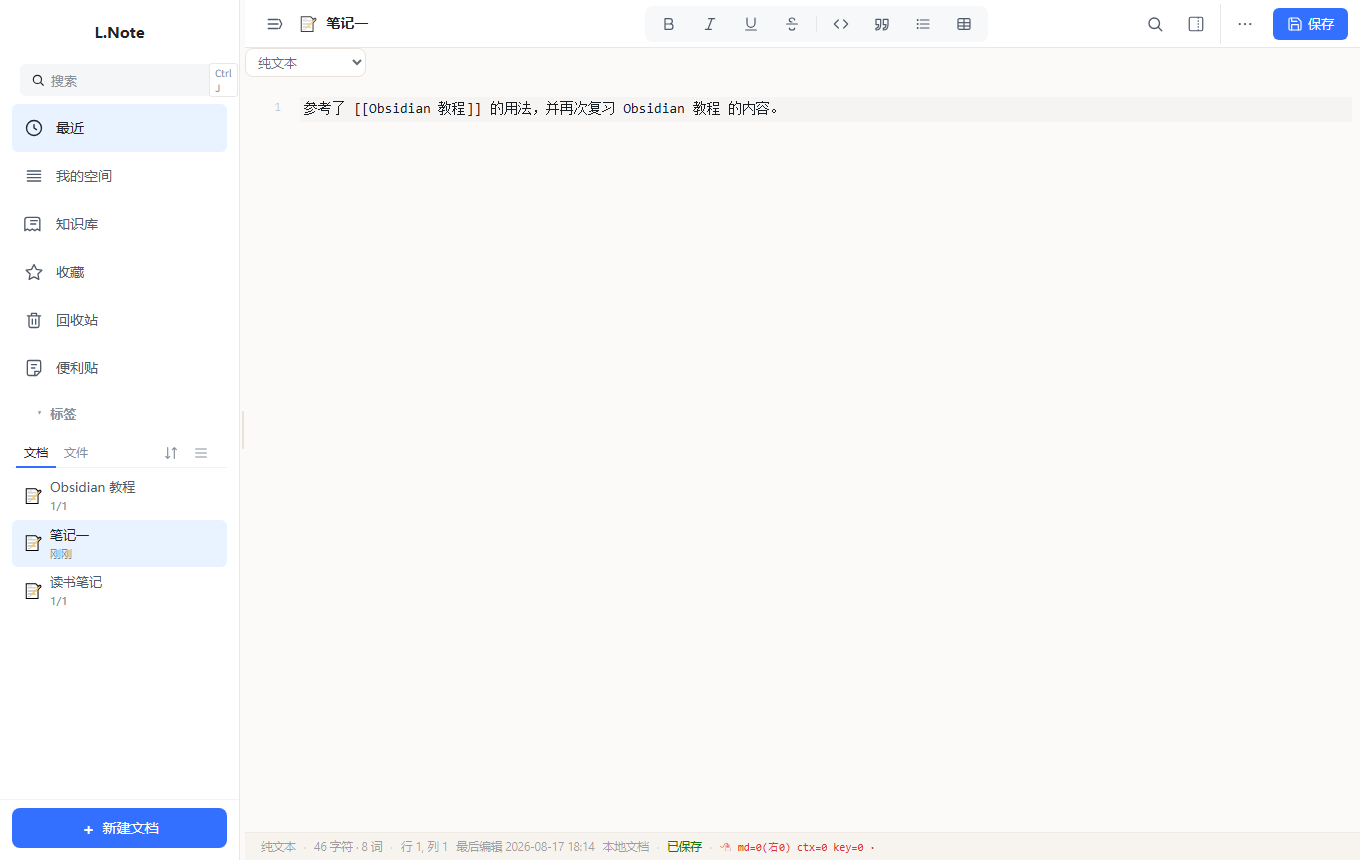
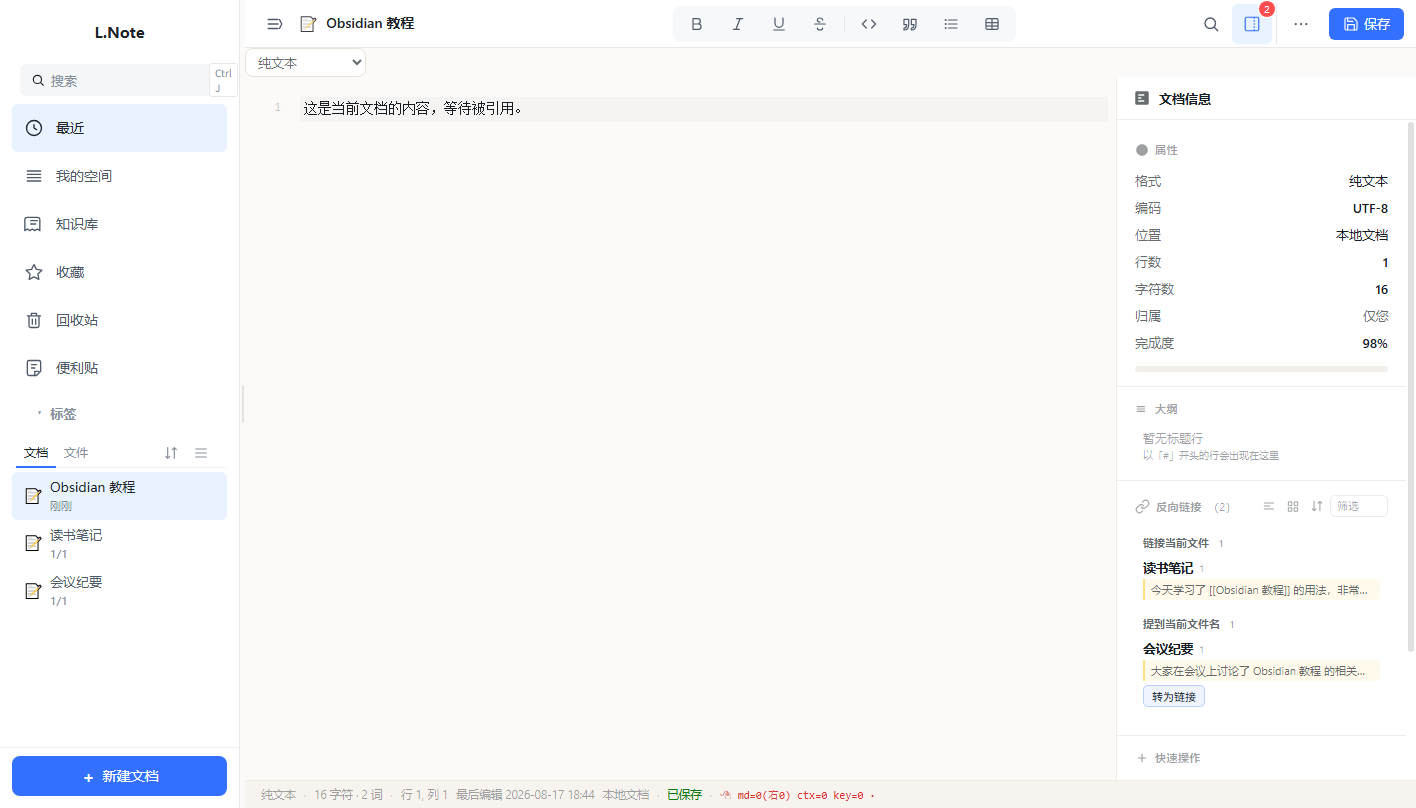
chore(site): 更新发布页面 v0.21.4

diff --git a/blink-guide.html b/blink-guide.html
@@ -105,7 +105,7 @@
     <div class="logo">L.</div>
     <h1>反向链接 · 操作指南</h1>
     <p class="tagline">L.Note（Inkpad）内置 Obsidian 风格反向链接面板，帮你发现文档之间的关联</p>
-    <div class="badge">版本 v0.20.44 · 纯本地运行 · <b>4 步上手</b></div>
+    <div class="badge">版本 v0.21.4 · 纯本地运行 · <b>4 步上手</b></div>
   </header>
 
   <div class="intro">
@@ -123,42 +123,45 @@
         <div class="step-title">在其他文档中引用标题</div>
         <div class="step-desc">
           在任意文档正文写入 <code>[[目标文档标题]]</code> 即为<b>内部链接</b>（也支持 <code>[[标题|别名]]</code>）；
-          或者直接输入目标文档的<b>标题文字</b>，它会被识别为"潜在引用"。
+          写入的瞬间编辑器就会<b>高亮显示</b>这段链接，让你立刻知道它生效了。
+          也可以直接输入目标文档的<b>标题文字</b>，它会被识别为"潜在引用"。
         </div>
       </div>
       <div class="step-shot">
-        <img src="screenshots/blink-1.png" alt="步骤1：在其他文档中引用标题">
-        <div class="shot-cap">在「笔记一」中写了 [[Obsidian 教程]]，并再次提到"Obsidian 教程"</div>
+        <img src="screenshots/blink-2.png" alt="步骤1：在其他文档中引用标题">
+        <div class="shot-cap">「笔记一」中的 [[Obsidian 教程]] 被蓝色下划线高亮</div>
       </div>
     </div>
 
     <div class="step">
       <div>
         <div class="step-num">2</div>
-        <div class="step-title">打开目标文档，查看反向链接面板</div>
+        <div class="step-title">打开目标文档，反向链接自动出现</div>
         <div class="step-desc">
-          打开被引用的文档（Obsidian 教程），点击右上角<b>「文档信息」</b>展开右侧面板，向下即可看到「反向链接」卡片。
-          卡片分两组：<b>链接当前文件</b>（明确链接，黄色高亮上下文）与 <b>提到当前文件名</b>（潜在引用）。
+          打开被引用的文档（Obsidian 教程），右上角<b>「文档信息」按钮上会显示红色计数徽标</b>，
+          右侧信息面板会<b>自动展开</b>，直接看到「反向链接」卡片。卡片分两组：
+          <b>链接当前文件</b>（明确链接）与 <b>提到当前文件名</b>（潜在引用，带「转为链接」按钮）。
         </div>
       </div>
       <div class="step-shot">
-        <img src="screenshots/blink-2.png" alt="步骤2：反向链接面板">
-        <div class="shot-cap">链接当前文件 1 篇 · 提到当前文件名 2 篇</div>
+        <img src="screenshots/blink-1.png" alt="步骤2：反向链接面板">
+        <div class="shot-cap">徽标显示 2 · 面板自动展开：链接 1 篇 + 提到 1 篇</div>
       </div>
     </div>
 
     <div class="step">
       <div>
         <div class="step-num">3</div>
-        <div class="step-title">用工具栏快速定位</div>
+        <div class="step-title">点击链接，一键跳转</div>
         <div class="step-desc">
-          卡片右上角工具栏：<b>折叠</b>（只显示文件名）、<b>上下文</b>（显示/隐藏所在段落）、
-          <b>排序</b>（按更新时间升降）、<b>筛选</b>（输入关键词过滤）。输入"读书"即可只看读书笔记。
+          编辑器里高亮的 <code>[[链接]]</code> 是可以点击的——单击它，
+          会直接跳转到目标文档；反向链接面板里的<b>每一条记录同样可以点击打开</b>，
+          在笔记之间穿梭就像浏览网页一样。
         </div>
       </div>
       <div class="step-shot">
-        <img src="screenshots/blink-3.png" alt="步骤3：筛选结果">
-        <div class="shot-cap">筛选"读书" → 仅保留读书笔记</div>
+        <img src="screenshots/blink-3.png" alt="步骤3：点击链接跳转">
+        <div class="shot-cap">点击 [[Obsidian 教程]] 后直接打开目标文档</div>
       </div>
     </div>
 
@@ -168,12 +171,13 @@
         <div class="step-title">一键「转为链接」</div>
         <div class="step-desc">
           在「提到当前文件名」分组里，点击某条记录右侧的<b>「转为链接」</b>按钮，
-          该文档正文中的标题文字会自动变成 <code>[[标题]]</code>，随即归入「链接当前文件」，形成正式关联。
+          该文档正文中的标题文字会自动变成 <code>[[标题]]</code>，随即归入「链接当前文件」，
+          形成正式关联——面板会<b>实时刷新</b>，无需手动重新打开。
         </div>
       </div>
       <div class="step-shot">
         <img src="screenshots/blink-4.png" alt="步骤4：转为链接后">
-        <div class="shot-cap">点击「转为链接」后，读书笔记移入「链接当前文件」</div>
+        <div class="shot-cap">点击「转为链接」后，会议纪要移入「链接当前文件」，原文变为 [[Obsidian 教程]]</div>
       </div>
     </div>
   </section>

diff --git a/download.html b/download.html
@@ -166,18 +166,18 @@
     <div class="logo">L.</div>
     <h1>L.Note</h1>
     <p class="tagline">本地 Notion 风文本编辑器 —— 语法高亮 · Markdown 预览 · Mermaid 图表 · JSON/XML 工具</p>
-    <div class="badge">免费 · 免安装 · 纯本地运行 · 无需联网 · <b>v0.20.44</b></div>
+    <div class="badge">免费 · 免安装 · 纯本地运行 · 无需联网 · <b>v0.21.4</b></div>
   </header>
 
   <div class="dl-card">
-    <a class="dl-btn" href="https://github.com/stutasliu/LNote/releases/download/v0.20.44/L.Note-v0.20.44-win64.exe" download>
+    <a class="dl-btn" href="https://github.com/stutasliu/LNote/releases/download/v0.21.4/L.Note-v0.21.4-win64.exe" download>
       <svg viewBox="0 0 24 24" fill="none" stroke="currentColor" stroke-width="2" stroke-linecap="round" stroke-linejoin="round"><path d="M12 3v12m0 0 4-4m-4 4-4-4M4 17v2a2 2 0 0 0 2 2h12a2 2 0 0 0 2-2v-2"/></svg>
-      下载 L.Note v0.20.44（Windows）
+      下载 L.Note v0.21.4（Windows）
     </a>
     <div class="dl-meta">
       便携版 · 约 15 MB · Windows 10/11（x64）· <a href="https://github.com/stutasliu/LNote/releases" target="_blank" rel="noopener" style="color:var(--accent-2)">GitHub Releases 备用入口</a><br>
       SHA256（可复制核对）：<br>
-      <code class="hash">bbad0f67845317c699db6101e24b61cd183eaf1101a9564122d49c0098d52d30</code>
+      <code class="hash">ae2102e62eb14548e125c3811ac97d10aebd99e4e893bd2504e60d8095a1da5c</code>
     </div>
   </div>
 
@@ -223,6 +223,15 @@
           <li><b>隐私安全：</b>数据全部保存在本机（localStorage），无需联网、无账号、不上传任何数据</li>
         </ul>
       </div>
+      <div class="detail-block">
+        <h3>🔗 反向链接（Obsidian 风格）</h3>
+        <ul>
+          <li><b>内部链接：</b>正文输入 <code>[[文档标题]]</code> 即建立链接（支持 <code>[[标题|别名]]</code>），编辑器内实时高亮、可点击跳转</li>
+          <li><b>智能识别：</b>自动扫描全部文档，区分「链接当前文件」与「提到当前文件名」（潜在引用）</li>
+          <li><b>一键转链接：</b>潜在引用可一键「转为链接」，正文自动改写为 <code>[[标题]]</code>，面板实时刷新</li>
+          <li><b>计数徽标：</b>右上角「文档信息」按钮显示红色计数徽标，有反向链接时面板自动展开</li>
+        </ul>
+      </div>
     </div>
   </section>
 
@@ -259,6 +268,11 @@
         <figcaption>批量管理 · 多选与批量操作</figcaption>
         <div class="zoom-hint">点击图片可放大查看</div>
       </figure>
+      <figure>
+        <img src="screenshots/blink-1.png" alt="反向链接面板">
+        <figcaption>反向链接 · 徽标计数 + 自动展开</figcaption>
+        <div class="zoom-hint">点击图片可放大查看</div>
+      </figure>
     </div>
   </section>
 
@@ -268,7 +282,7 @@
       <div class="panel">
         <h3>安装与运行</h3>
         <ul>
-          <li>双击 <b>L.Note-v0.20.44-win64.exe</b>，免安装直接运行</li>
+          <li>双击 <b>L.Note-v0.21.4-win64.exe</b>，免安装直接运行</li>
           <li>依赖 Edge WebView2 运行时（Win11 自带，Win10 一般已预装）</li>
           <li>数据保存在本机浏览器存储，卸载/换机前请先导出备份</li>
         </ul>
@@ -278,7 +292,7 @@
         <ul>
           <li>复制上方 SHA256 值</li>
           <li>在 exe 所在目录执行：</li>
-          <li><b>certutil -hashfile L.Note-v0.20.44-win64.exe SHA256</b></li>
+          <li><b>certutil -hashfile L.Note-v0.21.4-win64.exe SHA256</b></li>
           <li>比对输出哈希是否一致</li>
         </ul>
       </div>
@@ -287,6 +301,14 @@
 
   <section>
     <h2>更新日志</h2>
+    <div class="changelog">
+      <div class="v">v0.21.4</div>
+      <ul>
+        <li>新增「打开所在文件夹」：文档菜单 / 顶栏菜单一键在系统文件管理器中定位文档</li>
+        <li>修复从 Excel 复制内容粘贴被误识别为图片的问题（粘贴改为文本优先）</li>
+        <li>新增选中文本右键菜单「翻译」功能（桌面版，中英互译）</li>
+      </ul>
+    </div>
     <div class="changelog">
       <div class="v">v0.20.44</div>
       <ul>

diff --git a/index.html b/index.html
@@ -166,18 +166,18 @@
     <div class="logo">L.</div>
     <h1>L.Note</h1>
     <p class="tagline">本地 Notion 风文本编辑器 —— 语法高亮 · Markdown 预览 · Mermaid 图表 · JSON/XML 工具</p>
-    <div class="badge">免费 · 免安装 · 纯本地运行 · 无需联网 · <b>v0.20.44</b></div>
+    <div class="badge">免费 · 免安装 · 纯本地运行 · 无需联网 · <b>v0.21.4</b></div>
   </header>
 
   <div class="dl-card">
-    <a class="dl-btn" href="https://github.com/stutasliu/LNote/releases/download/v0.20.44/L.Note-v0.20.44-win64.exe" download>
+    <a class="dl-btn" href="https://github.com/stutasliu/LNote/releases/download/v0.21.4/L.Note-v0.21.4-win64.exe" download>
       <svg viewBox="0 0 24 24" fill="none" stroke="currentColor" stroke-width="2" stroke-linecap="round" stroke-linejoin="round"><path d="M12 3v12m0 0 4-4m-4 4-4-4M4 17v2a2 2 0 0 0 2 2h12a2 2 0 0 0 2-2v-2"/></svg>
-      下载 L.Note v0.20.44（Windows）
+      下载 L.Note v0.21.4（Windows）
     </a>
     <div class="dl-meta">
       便携版 · 约 15 MB · Windows 10/11（x64）· <a href="https://github.com/stutasliu/LNote/releases" target="_blank" rel="noopener" style="color:var(--accent-2)">GitHub Releases 备用入口</a><br>
       SHA256（可复制核对）：<br>
-      <code class="hash">bbad0f67845317c699db6101e24b61cd183eaf1101a9564122d49c0098d52d30</code>
+      <code class="hash">ae2102e62eb14548e125c3811ac97d10aebd99e4e893bd2504e60d8095a1da5c</code>
     </div>
   </div>
 
@@ -223,6 +223,15 @@
           <li><b>隐私安全：</b>数据全部保存在本机（localStorage），无需联网、无账号、不上传任何数据</li>
         </ul>
       </div>
+      <div class="detail-block">
+        <h3>🔗 反向链接（Obsidian 风格）</h3>
+        <ul>
+          <li><b>内部链接：</b>正文输入 <code>[[文档标题]]</code> 即建立链接（支持 <code>[[标题|别名]]</code>），编辑器内实时高亮、可点击跳转</li>
+          <li><b>智能识别：</b>自动扫描全部文档，区分「链接当前文件」与「提到当前文件名」（潜在引用）</li>
+          <li><b>一键转链接：</b>潜在引用可一键「转为链接」，正文自动改写为 <code>[[标题]]</code>，面板实时刷新</li>
+          <li><b>计数徽标：</b>右上角「文档信息」按钮显示红色计数徽标，有反向链接时面板自动展开</li>
+        </ul>
+      </div>
     </div>
   </section>
 
@@ -259,6 +268,11 @@
         <figcaption>批量管理 · 多选与批量操作</figcaption>
         <div class="zoom-hint">点击图片可放大查看</div>
       </figure>
+      <figure>
+        <img src="screenshots/blink-1.png" alt="反向链接面板">
+        <figcaption>反向链接 · 徽标计数 + 自动展开</figcaption>
+        <div class="zoom-hint">点击图片可放大查看</div>
+      </figure>
     </div>
   </section>
 
@@ -268,7 +282,7 @@
       <div class="panel">
         <h3>安装与运行</h3>
         <ul>
-          <li>双击 <b>L.Note-v0.20.44-win64.exe</b>，免安装直接运行</li>
+          <li>双击 <b>L.Note-v0.21.4-win64.exe</b>，免安装直接运行</li>
           <li>依赖 Edge WebView2 运行时（Win11 自带，Win10 一般已预装）</li>
           <li>数据保存在本机浏览器存储，卸载/换机前请先导出备份</li>
         </ul>
@@ -278,7 +292,7 @@
         <ul>
           <li>复制上方 SHA256 值</li>
           <li>在 exe 所在目录执行：</li>
-          <li><b>certutil -hashfile L.Note-v0.20.44-win64.exe SHA256</b></li>
+          <li><b>certutil -hashfile L.Note-v0.21.4-win64.exe SHA256</b></li>
           <li>比对输出哈希是否一致</li>
         </ul>
       </div>
@@ -287,6 +301,14 @@
 
   <section>
     <h2>更新日志</h2>
+    <div class="changelog">
+      <div class="v">v0.21.4</div>
+      <ul>
+        <li>新增「打开所在文件夹」：文档菜单 / 顶栏菜单一键在系统文件管理器中定位文档</li>
+        <li>修复从 Excel 复制内容粘贴被误识别为图片的问题（粘贴改为文本优先）</li>
+        <li>新增选中文本右键菜单「翻译」功能（桌面版，中英互译）</li>
+      </ul>
+    </div>
     <div class="changelog">
       <div class="v">v0.20.44</div>
       <ul>

diff --git a/RELEASE-NOTES.md b/RELEASE-NOTES.md
@@ -1,18 +1,18 @@
-# L.Note v0.20.44 发布说明
+# L.Note v0.21.4 发布说明
 
 > 本地 Notion 风文本编辑器：语法高亮 / Markdown 实时预览 / Mermaid 图表 / JSON·XML 格式化。
 > 纯本地运行，数据保存在本地存储，无需联网、无账号。
 
 ## 下载
 
-- 便携版（免安装，解压即用）：`L.Note-v0.20.44-win64.exe`
+- 便携版（免安装，解压即用）：`L.Note-v0.21.4-win64.exe`
 - 校验和：见 `SHA256SUMS.txt`（可用 `certutil -hashfile <文件> SHA256` 核对）
 
 > 系统要求：Windows 10/11（需已安装 Edge WebView2 运行时，Win11 自带；Win10 一般已自动安装，缺失时首次启动会提示安装）。
 
 ## 使用说明
 
-1. 双击 `L.Note-v0.20.44-win64.exe` 直接运行，无需安装。
+1. 双击 `L.Note-v0.21.4-win64.exe` 直接运行，无需安装。
 2. 未签名程序首次运行可能出现 SmartScreen「未知发布者」提示：点击「更多信息」→「仍要运行」即可（详见下方「关于签名」）。
 3. 数据保存在本机（浏览器 localStorage），换电脑/清理数据前请先用「导出」备份。
 
@@ -21,6 +21,12 @@
 当前发布包未做代码签名（无受信任 CA 证书），Windows SmartScreen 会提示「未知发布者」。这不影响功能与安全；如需消除提示，可购买 OV/EV 代码签名证书（约 ¥1000/年）后重新签名发布，后续版本可跟进。
 
 ## 更新日志（本版亮点）
+
+**v0.21.4**
+
+- 打开所在文件夹：文档菜单 / 顶栏菜单一键在系统文件管理器中定位文档（Windows 选中文件、macOS Finder 显示）
+- 修复从 Excel/WPS 复制内容粘贴被误识别为图片的问题：粘贴改为文本优先，剪贴板携带文本时优先走文本粘贴，仅纯图片才按图片插入
+- 新增选中文本右键菜单「翻译」功能：自动检测语言并中英互译，桌面版通过 worker 线程 + Python 桥接执行，界面不卡顿
 
 **v0.20.44**
 
@@ -37,5 +43,6 @@
 
 ## 历史版本说明
 
+- v0.20.44：批量删除自动退出批量模式、文档去重规范化、文档信息面板「位置」、磁盘文件直接覆盖保存、启动空白框修复、JSON 混合序列化、查找/替换弹窗修复、排序开关、原生导入
 - v0.18.x：富文档（思维笔记）块编辑器、飞书式大纲、bubble menu、富文档磁盘保存
 - v0.17：保存/另存为分离、编码转换、时间戳工具
